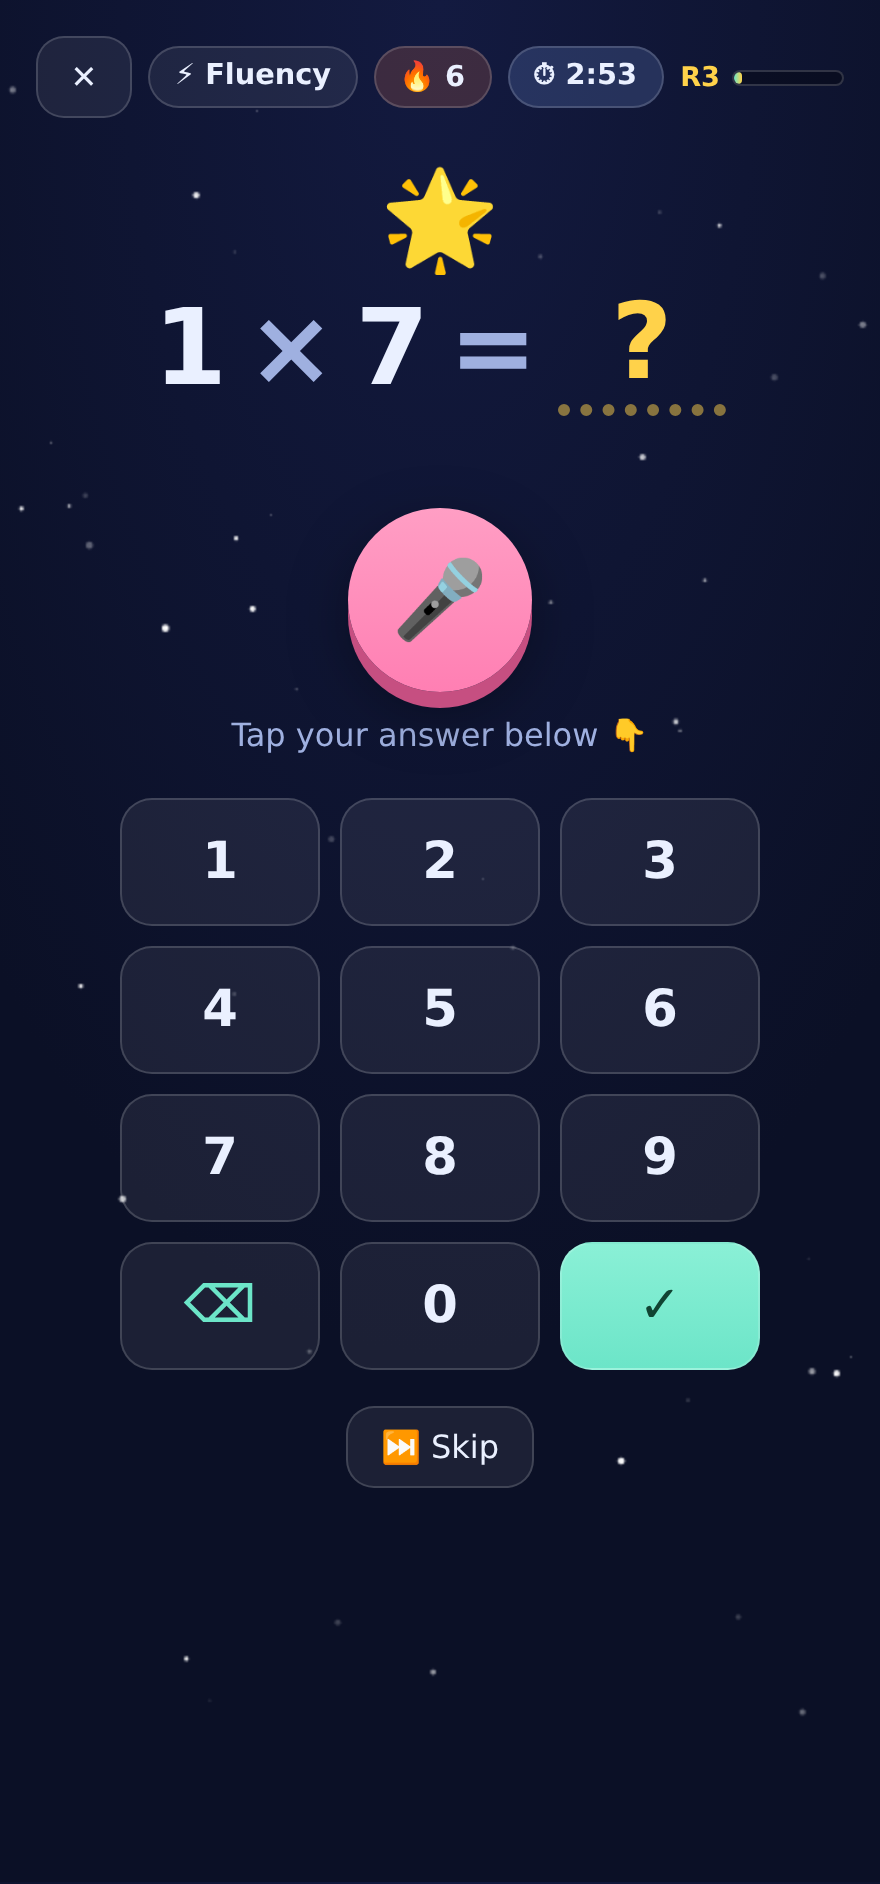
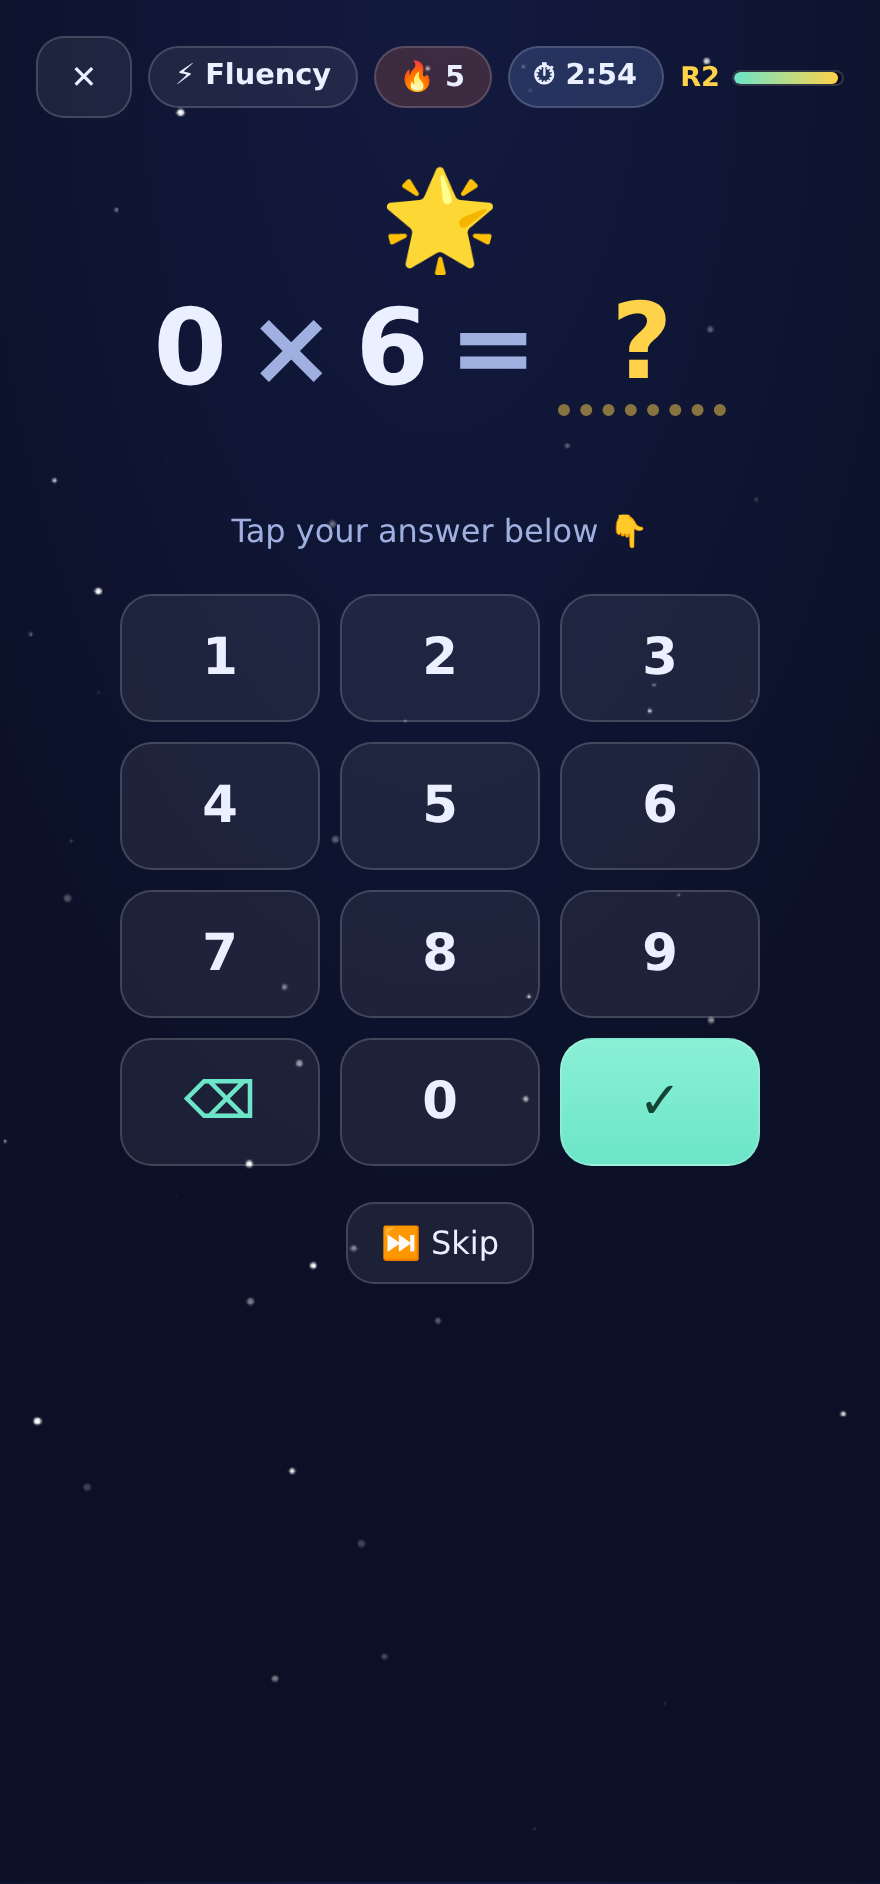
docs: screenshots of the mic setting, and refresh the play screen
Adds the two microphone-setting states side by side, and re-captures the play
screen, which the mic changes made stale: it showed a microphone button next to
"Tap your answer below", a combination that can no longer happen — with the mic
off the button is gone, and with it on the prompt reads "Listening…".

Also reports the voice as ready only once the model is downloaded AND warmed,
rather than as soon as the load starts. The Settings note claimed the voice was
listening on-device while it was still fetching.

Claude-Session: https://claude.ai/code/session_012k6vd3kKgZjgnSFXBCRkMw

diff --git a/js/app.js b/js/app.js
@@ -101,6 +101,7 @@ function ensureMic() {
 // screen and by switching the mic on in settings, which report progress
 // differently — hence the callbacks rather than a fixed UI.
 let voiceLoad = null;
+let voiceReady = false;   // the model is downloaded AND warmed, not just started
 
 function loadVoice({ status = () => {}, progress = () => {} } = {}) {
   if (voiceLoad) return voiceLoad;
@@ -113,6 +114,7 @@ function loadVoice({ status = () => {}, progress = () => {} } = {}) {
     status('Warming up the voice…');
     await buildModel();     // load vosk-browser + instantiate (from cache)
     await mic.preload();    // bind the ready model to our recognizer
+    voiceReady = true;
   })();
   // A failed download must stay retryable — one flaky attempt shouldn't wedge
   // the mic until the page is reloaded.
@@ -989,7 +991,7 @@ function renderMicNote() {
     setMicNote('⚠ This browser can\'t use the mic here (it needs https or localhost). Tap answers instead — everything still works!');
   } else if (!state.save.settings.useMic) {
     setMicNote('Off — the microphone is never opened and the ~40 MB voice model is never downloaded. Switch it on to fetch it once; after that it works offline.');
-  } else if (voiceLoad) {
+  } else if (voiceReady) {
     setMicNote('Hears spoken numbers on-device — accurate and private, and works offline. Tapping always works too.');
   } else {
     setMicNote('On — the ~40 MB voice model downloads the next time you play. Tapping always works too.');
@@ -1014,7 +1016,7 @@ async function setMicEnabled(on) {
 
   ensureMic();
   syncMicUi();
-  if (voiceLoad) { renderMicNote(); return; } // already downloaded this session
+  if (voiceReady) { renderMicNote(); return; } // already warmed this session
 
   try {
     await loadVoice({
